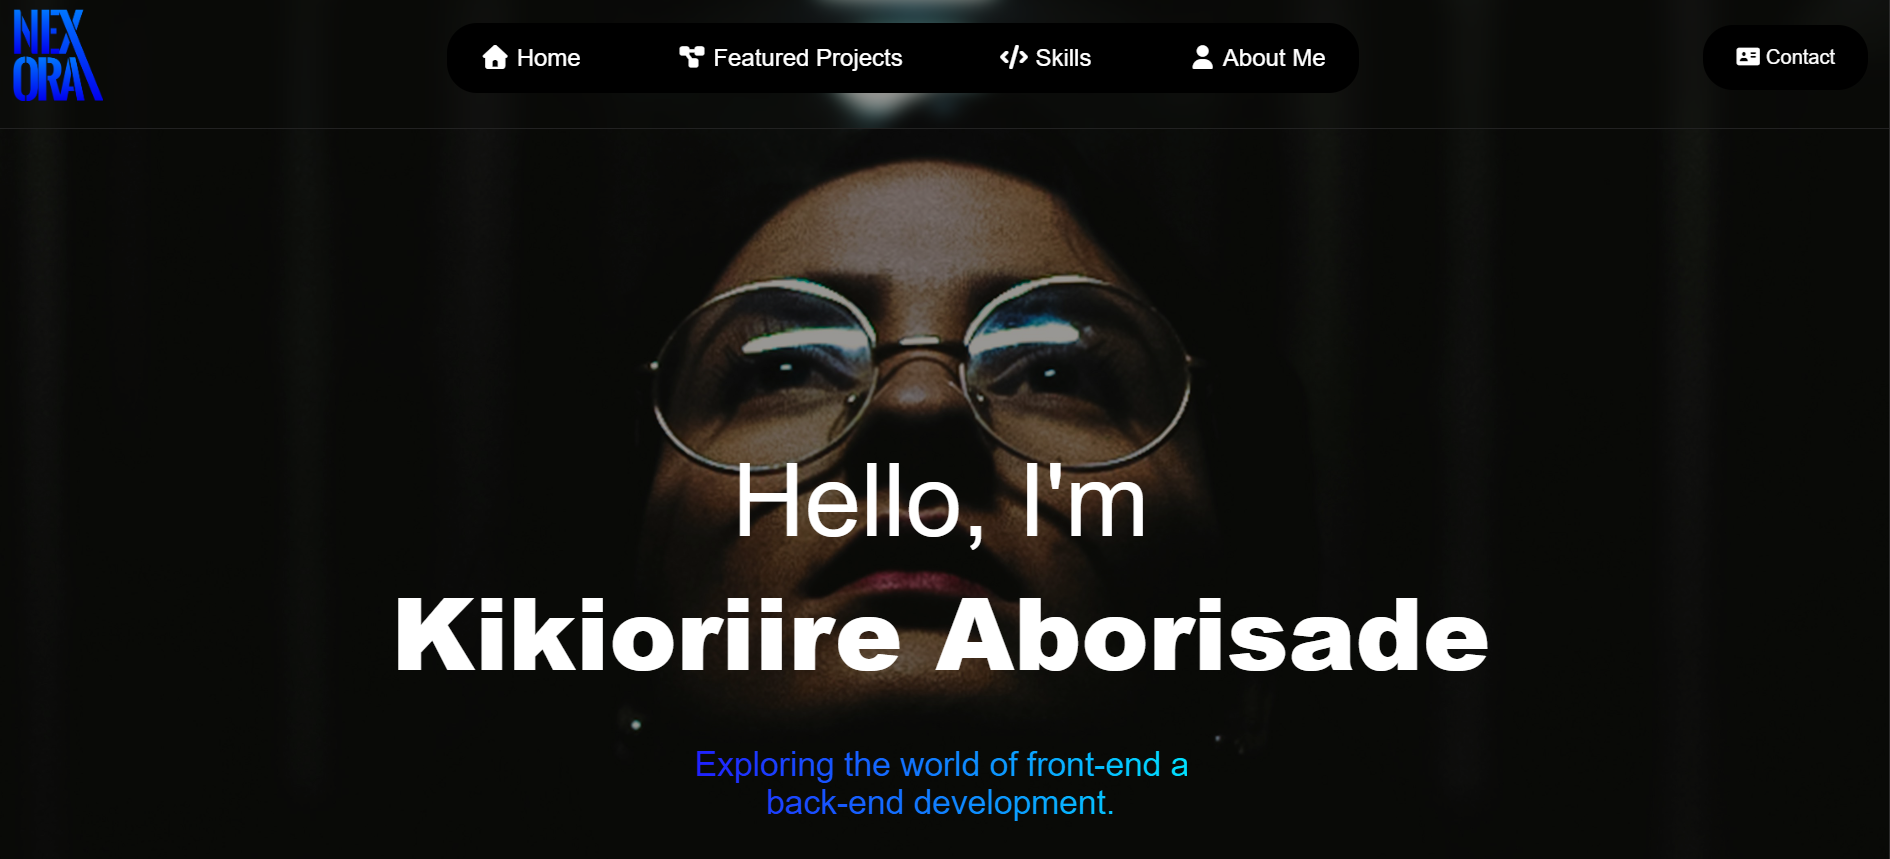
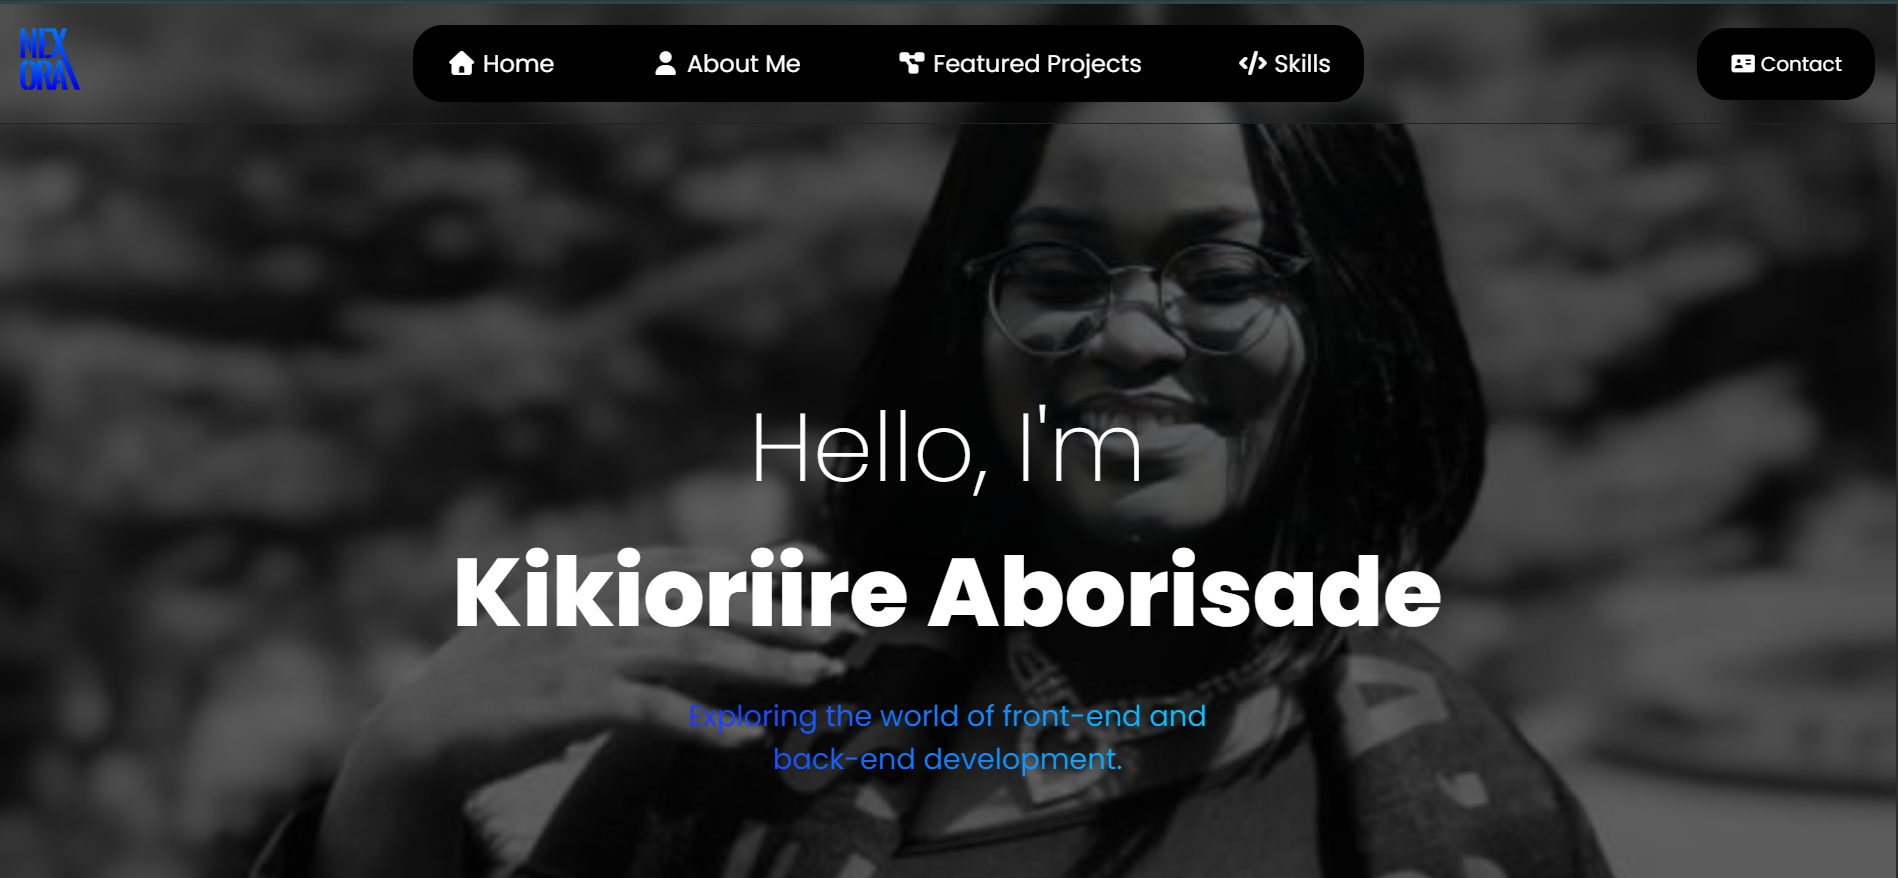
image url

diff --git a/index.html b/index.html
@@ -76,7 +76,7 @@
     <h2 class="abt">About Me</h2>
   <div class="about-container">
     <div class="about-image">
-      <img src="../IMAGES/myblog image.jpg" alt="Image" class="left-image">
+      <img src="./IMAGES/myblog image.jpg" alt="Image" class="left-image">
     </div>
 
     <div class="about-me">
@@ -119,28 +119,28 @@
 
         <div class="boxes">
             <div class="box1">
-                <a href="./OTHER-HTML/assignment7blog.html"><img src="../IMAGES/screenshotblog.png" alt="image" class="image">My Blog</a>
+                <a href="./OTHER-HTML/assignment7blog.html"><img src="./IMAGES/myblog image.jpg" alt="image" class="image">My Blog</a>
                 
             </div>
 
             <div class="box2">
-                <a href="./OTHER-HTML/Netflix.html"><img src="../IMAGES/netflix clone screen.png" alt="image" class="image">Netflix Cloning</a>
+                <a href="./OTHER-HTML/Netflix.html"><img src="./IMAGES/netflix clone screen.png" alt="image" class="image">Netflix Cloning</a>
             </div>
 
             <div class="box3">
-                <a href="./OTHER-HTML/animation.html"><img src="../IMAGES/fanscreenshot.png" alt="image" class="image">Animation</a>
+                <a href="./OTHER-HTML/animation.html"><img src="./IMAGES/fanscreenshot.png" alt="image" class="image">Animation</a>
             </div>
 
             <div class="box4">
-                <a href="./OTHER-HTML/X.html"><img src="../IMAGES/x cloning screenshot.png" alt="image" class="image">X Cloning</a>
+                <a href="./OTHER-HTML/X.html"><img src="./IMAGES/x cloning screenshot.png" alt="image" class="image">X Cloning</a>
             </div>
 
             <div class="box5">
-                <a href="./index.html"><img src="../IMAGES/portfolio screenshot.png" alt="image" class="image">My Portfolio</a>
+                <a href="./index.html"><img src="./IMAGES/portfolio screenshot.png" alt="image" class="image">My Portfolio</a>
             </div>
 
             <div class="box6">
-                <a href="./OTHER-HTML/bootstrap.html"><img src="../IMAGES/bootstrap practice.png" alt="image" class="image">Bootstrap Practice</a>
+                <a href="./OTHER-HTML/bootstrap.html"><img src="./IMAGES/bootstrap practice.png" alt="image" class="image">Bootstrap Practice</a>
             </div>
 
         </div>

diff --git a/index.css b/index.css
@@ -58,7 +58,7 @@ nav {
 }
 .overlay {
   position: absolute;
-  background: rgba(0, 0, 0, 0.6);
+  background: rgba(0, 0, 0, 0.8);
   /* background: linear-gradient(to bottom, rgba(0, 0, 0, 0.6), transparent); */
 
   height: 140vh;
